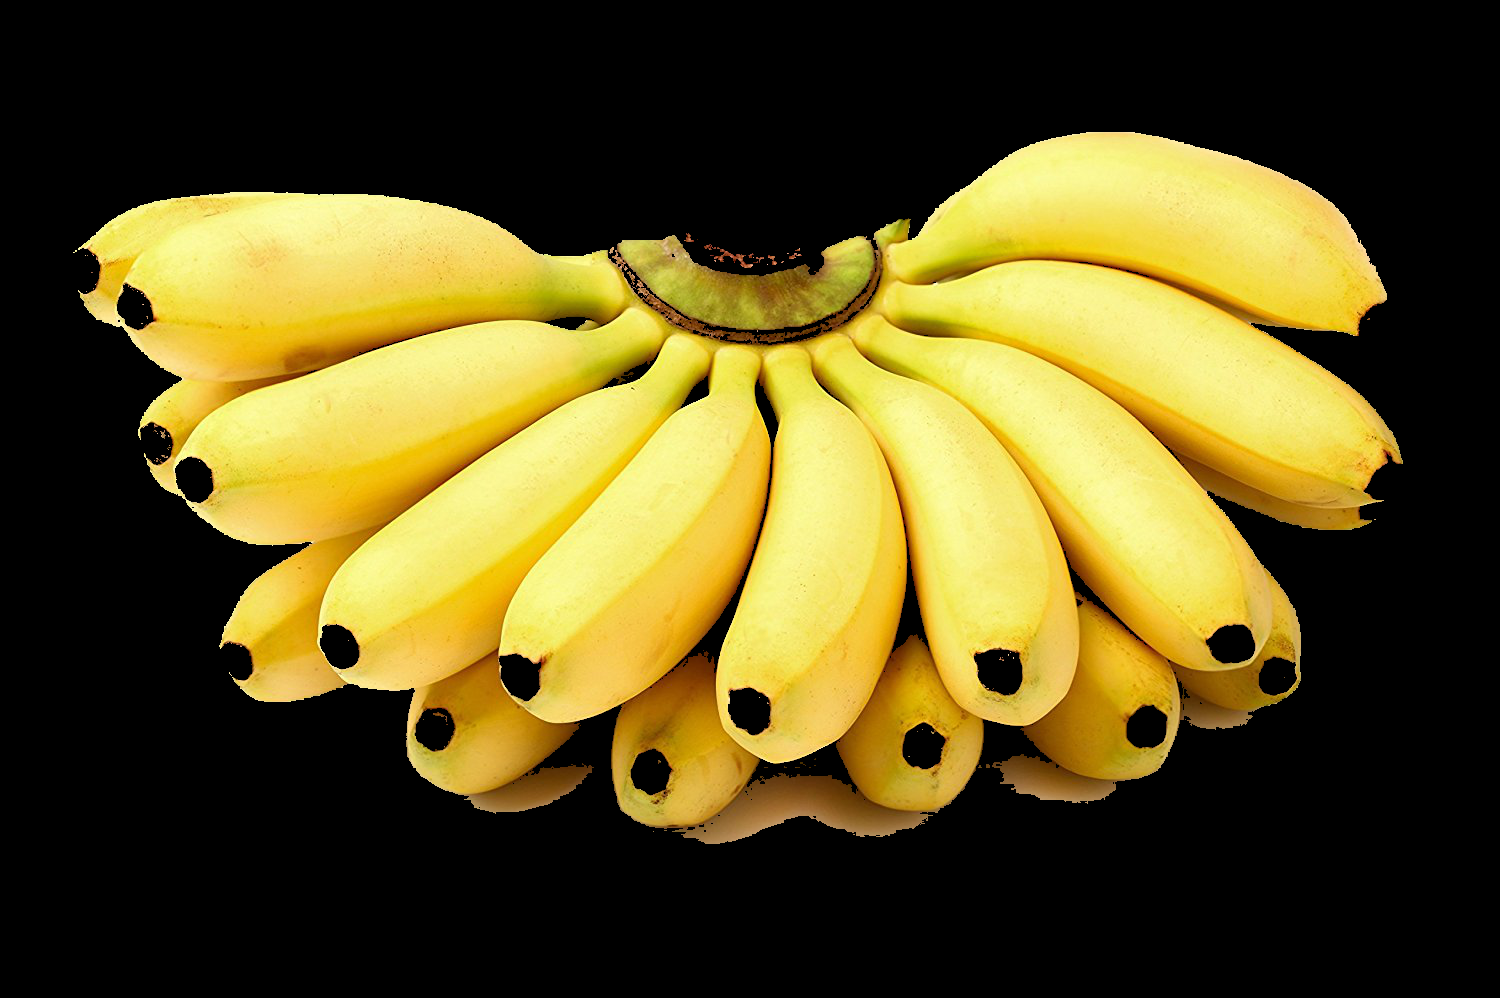
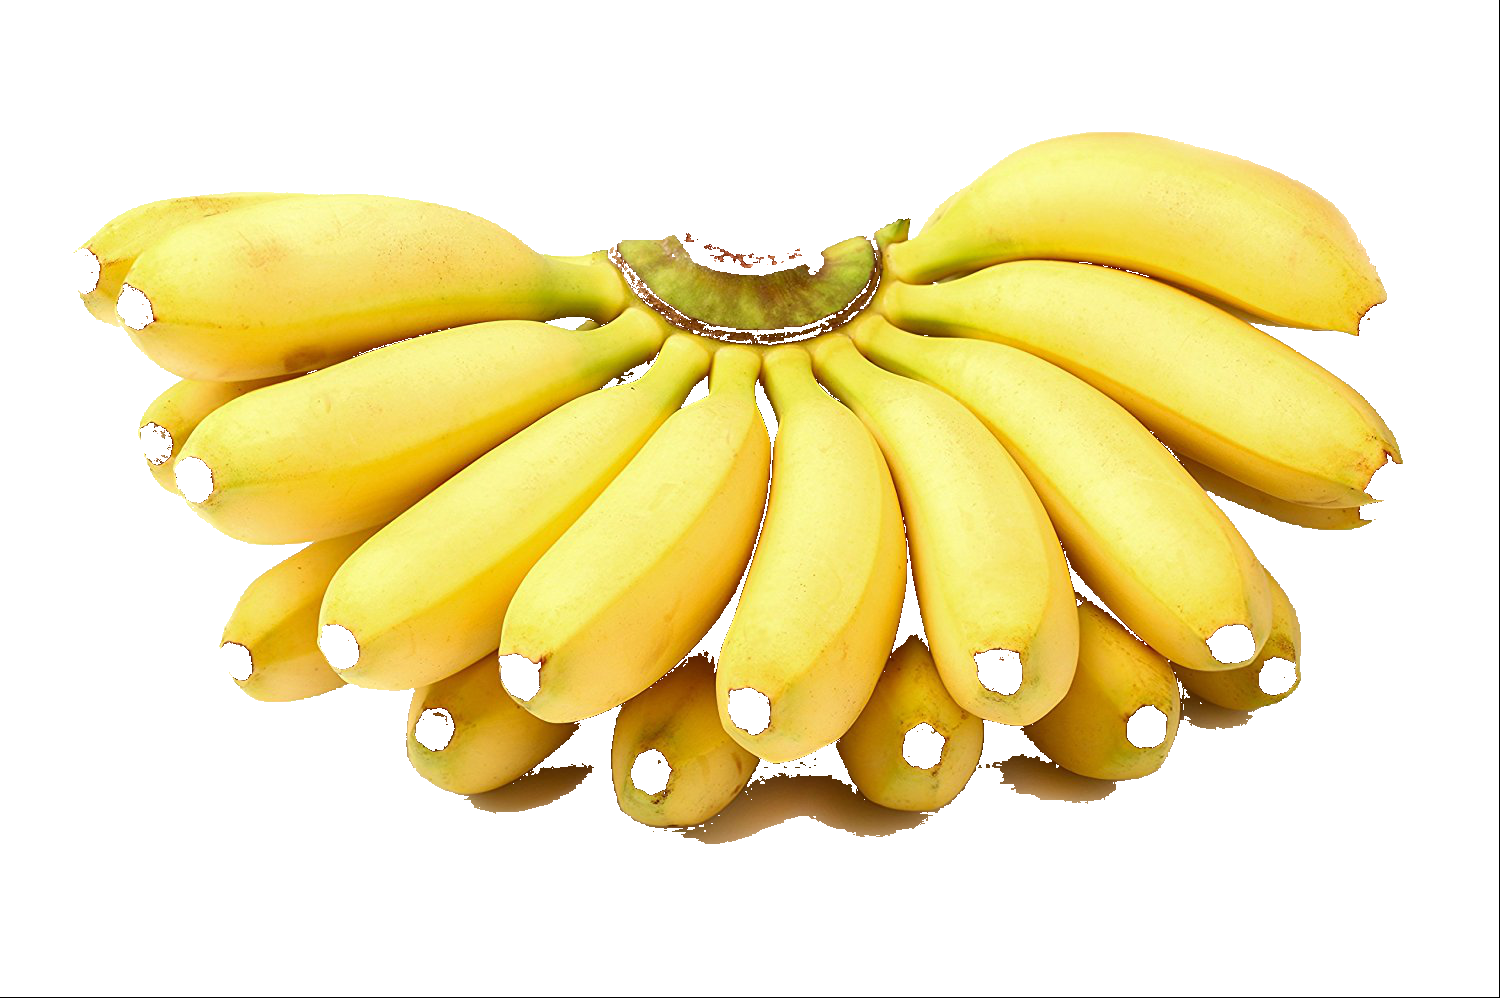
trying to get output automated

diff --git a/src/main.py b/src/main.py
@@ -90,6 +90,7 @@ def imageSegment(imagePath, imageName, output):
     object.append(bananaSA)
     object.append("../images/processed/" + imageName.rsplit('.', 1)[0] + '.png')
     #Returns the surface area of the banana for BrownSpot Analysis
+    print (bananaSA)
     return object
 
 def ColorAnaysis(imagePath):
@@ -198,20 +199,13 @@ def brownSpotAnalysis(bananaSize,imagePath):
     brown_spot = 0
     for i in range(im.shape[0]):
         for j in range(im.shape[1]):
-<<<<<<< HEAD
             if difference(lab_color[i, j][0], lab_color[i, j][1]) > 10 and difference(lab_color[i, j][1], lab_color[i, j][2]) > 10: # it is brown spot
                 im[i, j][0] = 0
                 im[i, j][1] = 0
                 im[i, j][2] = 0
-=======
-            if difference(lab_color[i, j][0], lab_color[i, j][1]) < 25 and difference(lab_color[i, j][1], lab_color[i, j][2]) < 25: # it is brown spot
-                im[i, j][0] = 255
-                im[i, j][1] = 255
-                im[i, j][2] = 255
->>>>>>> 91002e2b6d0a6ca162b87e92b54b7472f199fe18
                 brown_spot += 1
-    misc.imsave("../images/brownSpot/v001Test.png", im)
-    print"brown spot " + str(float(brown_spot)/float(bananaSize))
+    misc.imsave("../images/brownSpot/brownSpot_" + os.path.basename(imagePath), im)
+    print"brown spot " + str((float(brown_spot)/float(bananaSize)) * 100) + " %"
     pass
 
 #Program loop to run the program
@@ -227,7 +221,6 @@ while (progExit == False):
         fileName = raw_input("Enter File Name: ")
         obj = imageSegment(inputFolder + fileName, fileName, data2)
         bananaSize = obj[0]
-        print(str(bananaSize))
         brownSpotAnalysis(bananaSize, obj[1]);
 
     elif (inp == 't') or (inp == 'T'):
